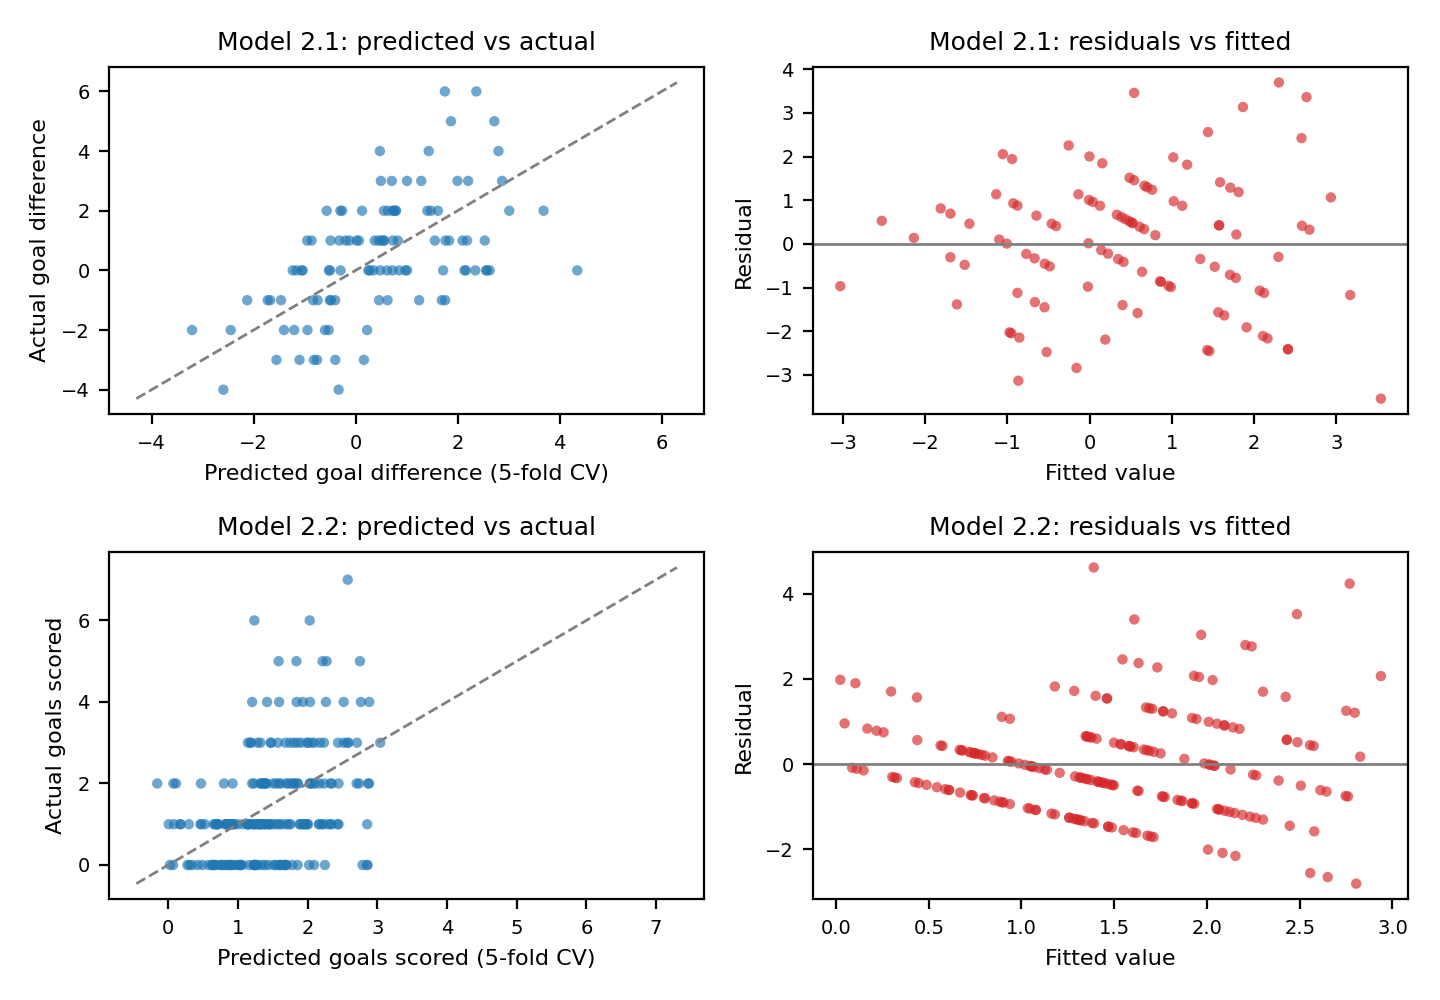
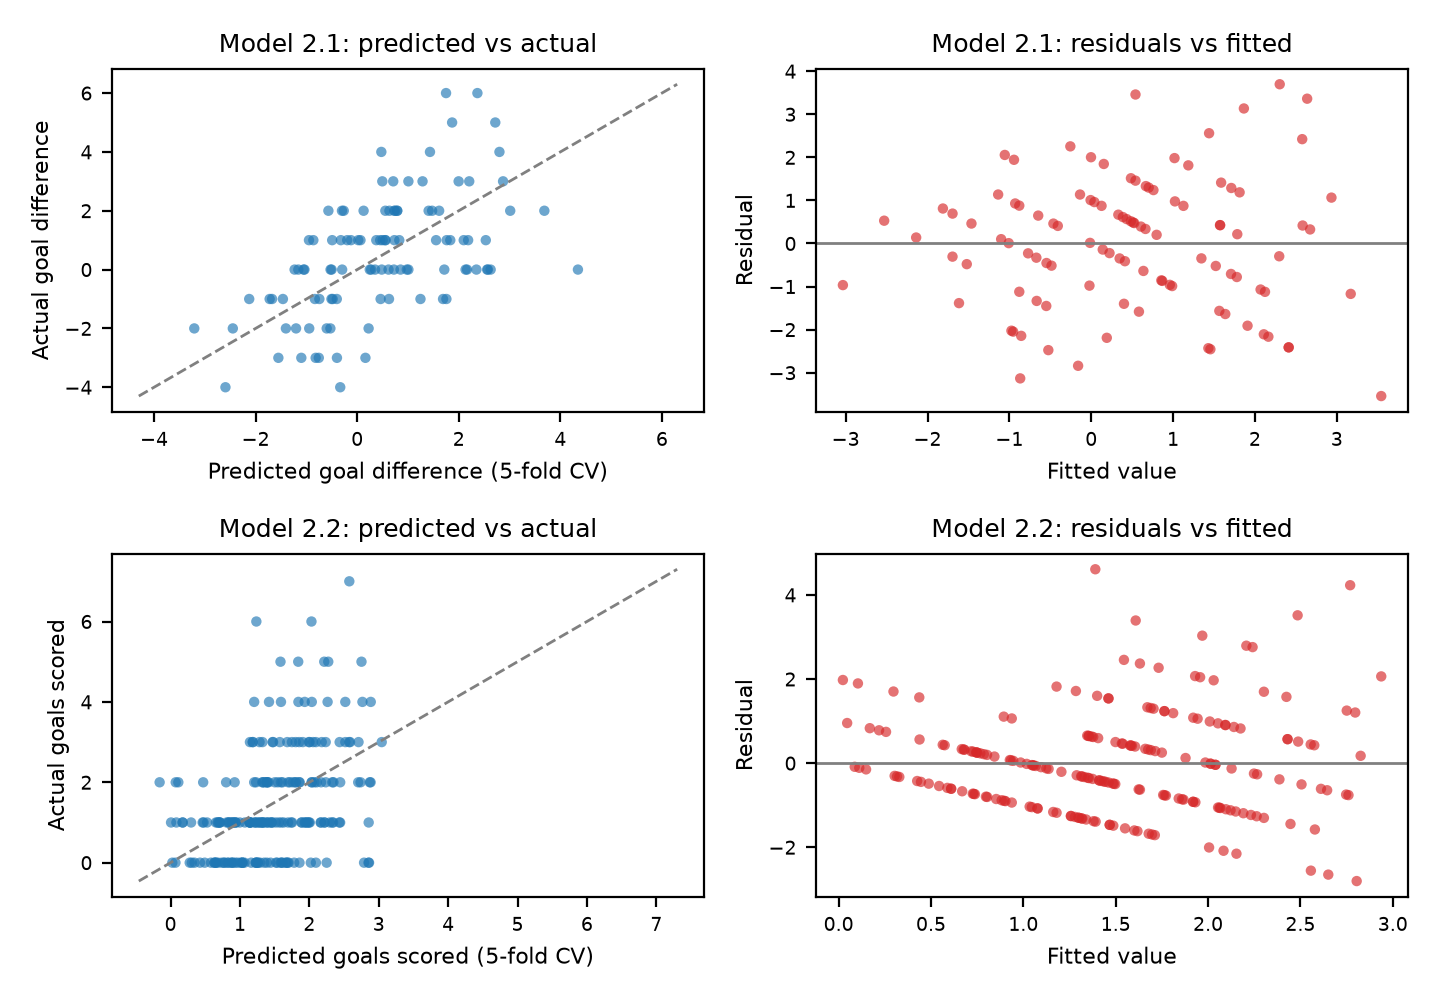
Update in build-dataset code

diff --git a/build_datasets.py b/build_datasets.py
@@ -141,8 +141,8 @@ lr21 = pd.DataFrame({
     "home_team": home.team,
     "away_team": home.opp,
     "goal_diff": home.gf - home.ga,                          # TARGET (home - away)
-    "rank_diff": home.opp_rank - home["rank"],               # + favours home team
-    "host_adv_diff": home.in_own_country - home.opp_in_own_country,
+    "rank_dif": home.opp_rank - home["rank"],               # + favours home team
+    "host_adv_dif": home.in_own_country - home.opp_in_own_country,
     "knockout": home.knockout,
     "rest_days_diff": home.rest_days - home.opp_rest_days,
     "goals_for_avg_diff": (home.gf_avg - home.opp_gf_avg).round(3),
